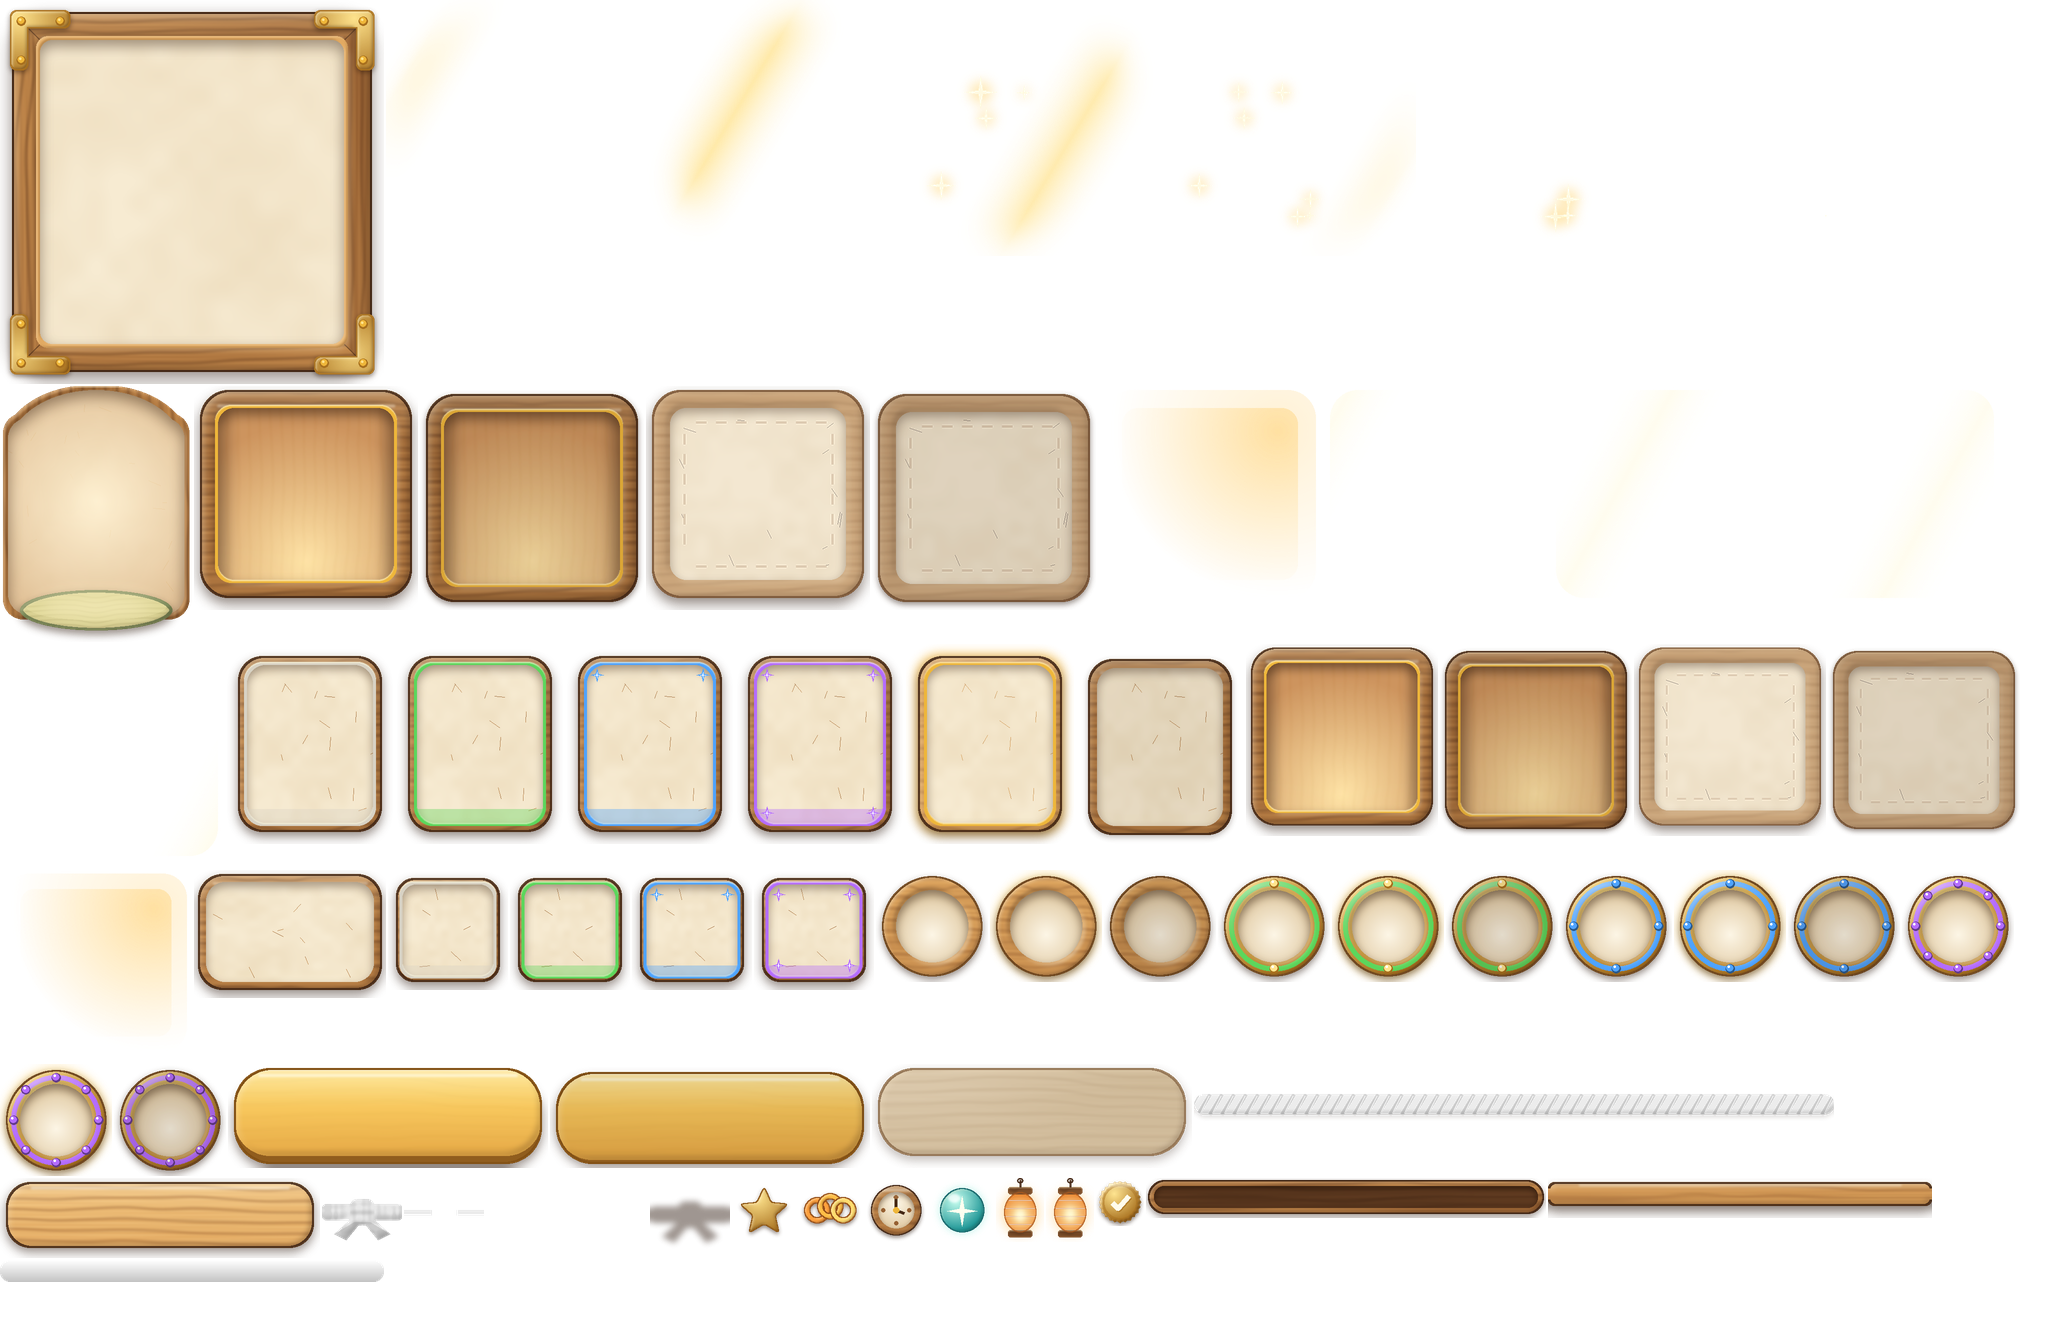
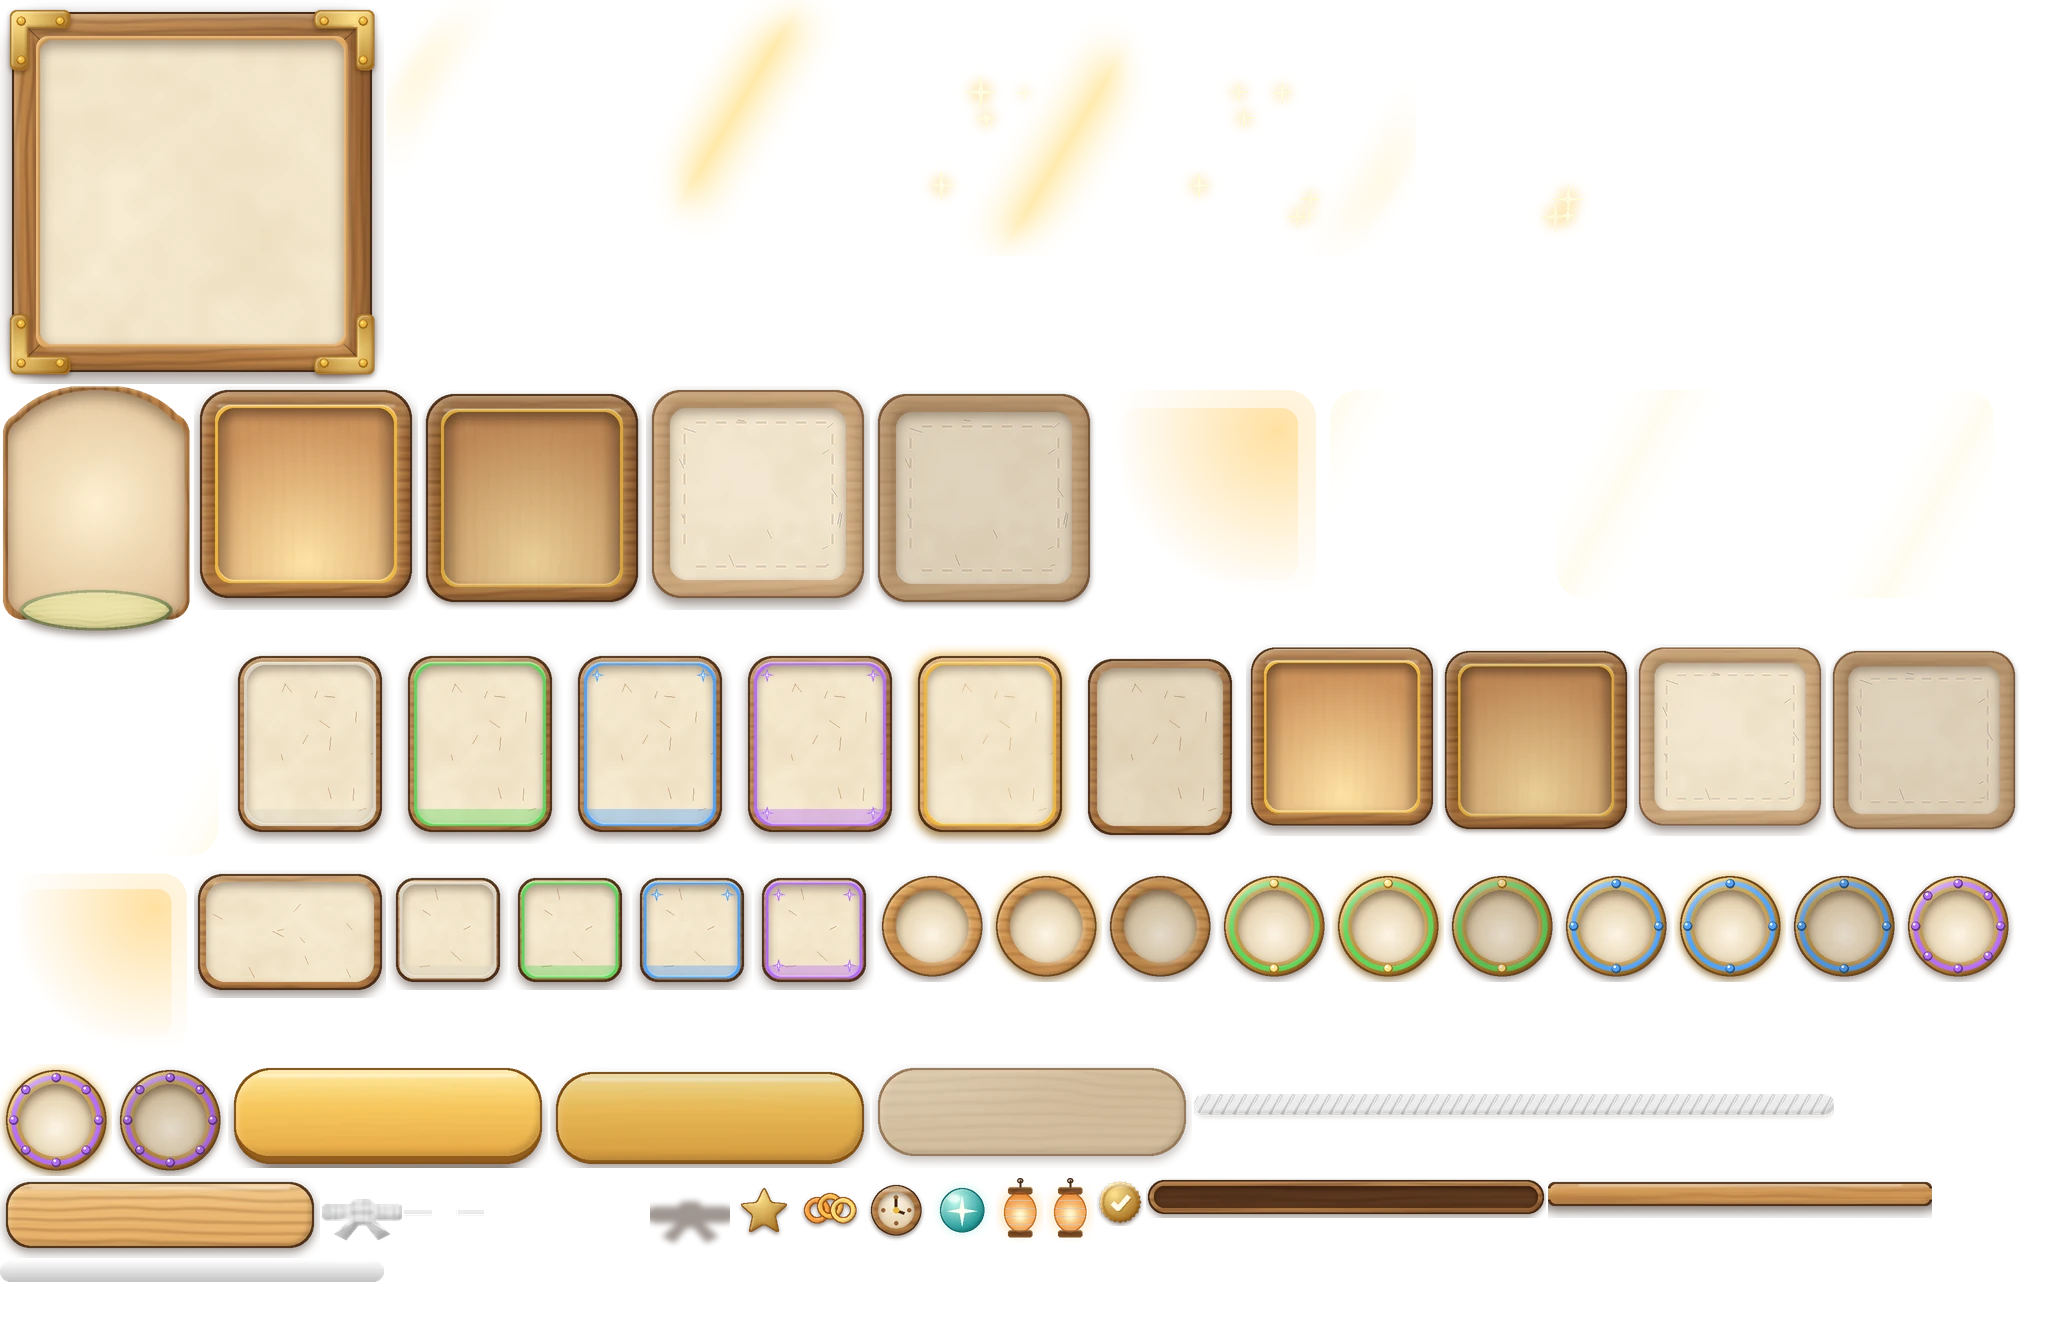
P-MENU2-i: QA fixes on #286 (uniform gear tiles, rarity/name contrast >=4.5, 3-slice height + rail clearance, 8px stat label pad, lossy menu2 webp 268KB)

diff --git a/apps/client/src/scenes/HomeScene.ts b/apps/client/src/scenes/HomeScene.ts
@@ -47,7 +47,7 @@ import { isPlayTimeUp } from '../game/playTime';
 import { addIcon, ICON_PACK } from '../art/icons';
 import { addGearIcon, loadGearIcons } from '../art/gearIcons';
 import { loadArt } from '../art/art';
-import { hasMenu2, menu2Frames, menu2Image, menu2Slice, skinButton, woodSkin, HONEY_INK } from '../art/menu2';
+import { hasMenu2, menu2Fit, menu2Frames, menu2Image, menu2Slice, setMenu2, skinButton, woodSkin, HONEY_INK } from '../art/menu2';
 import { MENU2_PACK, artRarity } from '../art/menu2Frames';
 import { makeStandingCharacter } from '../art/player';
 import { loadLook, playerPacks } from '../game/look';
@@ -74,6 +74,11 @@ type Tab = 'run' | 'gear' | 'abilities' | 'gate';
  * summary, gear, abilities, and the Gate.
  */
 /** P-MENU2-i: the A-MENU2 stat icons (Rooms has none, so it shows its number only). */
+/** QA: rarity words on the paper tiles, darkened to at least 4.5:1 on the paper (#efe0c4). */
+const RARITY_INK: Record<GearItem['rarity'], string> = { common: '#6b5a48', uncommon: '#245a24', rare: '#174a7d', epic: '#5e2696', legendary: '#8a4a12' };
+/** QA: the painted wood rim of the stat tile at k 0.5 (12 of its 32 @2x slice px; half at k 0.25), and the space kept inside it. */
+const STAT_RIM = 6;
+const STAT_PAD = S2;
 const STAT_ICON: Record<string, string | undefined> = { perfects: 'stat-perfect', combo: 'stat-combo', time: 'stat-clock', xp: 'stat-xp' };
 
 /** A-MENU2: only the Black belt gets the full knot sheen. */
@@ -541,9 +546,11 @@ export class HomeScene extends Phaser.Scene {
     L.tiles.forEach((b, i) => {
       const st = m.stats[i];
       // P-MENU2-i: the A-MENU2 stat tile (9-slice 16) with its icon at x 12; code tile if missing.
-      const tileArt = menu2Slice(this, 'stat-tile', X(b.x), Y(b.y), b.w, b.h);
+      // QA: short (44) tiles draw the rim at half size (k 0.25) so the label keeps 8 px inside it.
+      const rim = b.h < 56 ? STAT_RIM / 2 : STAT_RIM;
+      const tileArt = menu2Slice(this, 'stat-tile', X(b.x), Y(b.y), b.w, b.h, b.h < 56 ? 0.25 : 0.5);
       // On the paper tile the words are dark ink (white on wood stays for the code tile).
-      const ink = tileArt ? { num: st.key === 'xp' ? '#2f6f9a' : WOOD.ink, label: '#5a3e28' } : { num: st.key === 'xp' ? '#9ad1ff' : '#fff6e6', label: '#f2e3c4' };
+      const ink = tileArt ? { num: st.key === 'xp' ? '#245a80' : WOOD.ink, label: '#5a3e28' } : { num: st.key === 'xp' ? '#9ad1ff' : '#fff6e6', label: '#f2e3c4' };
       if (tileArt) {
         this.ui.add(tileArt);
         const iconArt = STAT_ICON[st.key];
@@ -556,10 +563,18 @@ export class HomeScene extends Phaser.Scene {
         tg.lineStyle(2, WOOD.frameDark).strokeRoundedRect(X(b.x), Y(b.y), b.w, b.h, RADIUS.button);
         this.ui.add(tg);
       }
-      const big = b.h >= 56 ? TYPE.heading : TYPE.title;
+      // QA: on the short art tile the number steps down to 14 so it clears the padded label.
+      const big = b.h >= 56 ? TYPE.heading : tileArt ? TYPE.body : TYPE.title;
       const num = this.text(X(b.x + b.w / 2), Y(b.y + S1), st.format(count ? 0 : st.value), big, ink.num, true).setOrigin(0.5, 0);
       num.setData('stat', st.key);
-      this.oneLine(this.text(X(b.x + b.w / 2), Y(b.y + b.h - S1 - TYPE.label - 2), st.label, TYPE.label, ink.label, true).setOrigin(0.5, 0), b.w - 2 * S2, TYPE.label);
+      // QA: on the art the label keeps 8 px inside the painted rim (bottom and sides).
+      const inset = tileArt ? rim + STAT_PAD : S1 + 2;
+      const lab = this.text(X(b.x + b.w / 2), Y(b.y + b.h - inset), st.label, TYPE.label, ink.label, true).setOrigin(0.5, 1);
+      this.oneLine(lab, b.w - 2 * (tileArt ? rim + STAT_PAD : S2), TYPE.label);
+      if (tileArt) {
+        lab.setData('statLabel', st.key);
+        tileArt.setData('statTile', st.key).setData('rim', rim);
+      }
       if (count) {
         const v = { t: 0 };
         this.tweens.add({ targets: v, t: 1, delay: countDelay, duration: LASTRUN_MOTION.countMs, onUpdate: () => num.setText(st.format(countAt(st.value, v.t))), onComplete: () => num.setText(st.format(st.value)) });
@@ -576,11 +591,15 @@ export class HomeScene extends Phaser.Scene {
     const bar = this.add.graphics();
     this.ui.add(bar);
     // P-MENU2-i: the A-MENU2 bar (3-slice frame, fill tinted #f2c14e, gloss on top); code bar if missing.
-    const frameArt = menu2Slice(this, 'xp-bar-frame', X(0), Y(L.bar.y) - 2, cw, L.bar.h + 4);
-    const inset = ((L.bar.h + 4) * 4) / 20;
-    const fillH = ((L.bar.h + 4) * 11) / 20;
-    const fillArt = frameArt ? menu2Slice(this, 'xp-bar-fill', X(inset), Y(L.bar.y) - 2 + inset, cw - 2 * inset, fillH) : null;
-    const glossArt = fillArt ? menu2Slice(this, 'xp-bar-gloss', X(inset), Y(L.bar.y) - 2 + inset, cw - 2 * inset, fillH) : null;
+    // QA: the rail is only 1 px taller than the bar each way, so it stays clear of the tiles above and Found / dots / New for you below.
+    const railH = L.bar.h + 2;
+    const railY = Y(L.bar.y) - 1;
+    const frameArt = menu2Slice(this, 'xp-bar-frame', X(0), railY, cw, railH);
+    frameArt?.setData('xpRail', true);
+    const inset = (railH * 4) / 20;
+    const fillH = (railH * 11) / 20;
+    const fillArt = frameArt ? menu2Slice(this, 'xp-bar-fill', X(inset), railY + inset, cw - 2 * inset, fillH) : null;
+    const glossArt = fillArt ? menu2Slice(this, 'xp-bar-gloss', X(inset), railY + inset, cw - 2 * inset, fillH) : null;
     if (frameArt && fillArt) {
       fillArt.setTint(atCap ? 0xffd166 : 0xf2c14e);
       this.ui.add([frameArt, fillArt, ...(glossArt ? [glossArt] : [])]);
@@ -651,7 +670,7 @@ export class HomeScene extends Phaser.Scene {
     const fresh = newForYou(this.trophyCubbies(), this.profile.trophiesSeen);
     if (fresh) {
       const nc = L.newCard;
-      this.text(X(nc.x), Y(L.newLabelY), LASTRUN_WORDS.newForYou, TYPE.label, '#a0522d', true);
+      this.text(X(nc.x), Y(L.newLabelY), LASTRUN_WORDS.newForYou, TYPE.label, '#8a4a12', true).setData('newLabel', true);
       const b = button(this, { x: X(nc.x), y: Y(nc.y), w: nc.w, h: nc.h, label: '', color: 0xa8703f, size: TYPE.label, stroke: 0xffd166, onTap: () => this.openNewForYou() }, this.ui);
       b.visual.setData('newForYou', fresh.id);
       const tall = nc.h >= 80;
@@ -1079,6 +1098,8 @@ export class HomeScene extends Phaser.Scene {
     const txt = this.cubbyLabel(c, size);
     const iy = -half + TROPHY_UI.stroke / 2 + TROPHY_UI.cubbyTop + iconS / 2;
     txt.setY(iy + iconS / 2 + TROPHY_UI.cubbyGap);
+    // QA: the cream names sit over the yellow icon disc and the honey wood; a dark ink outline keeps them 4.5:1+.
+    if (skin && c.earned) txt.setStroke(WOOD.ink, 4).setData('cubbyName', true);
     const icon = c.icon ? addIcon(this, c.icon, 0, iy, iconS) : null;
     if (icon) v.add(icon.setAlpha(c.earned ? 1 : 0.3));
     else v.add(this.add.circle(0, iy, iconS / 2, c.earned ? 0xffd166 : WOOD.grain, c.earned ? 0.9 : 0.3));
@@ -1441,8 +1462,20 @@ export class HomeScene extends Phaser.Scene {
       const v = b.visual.setData('gearTile', it.uid);
       // P-MENU2-i: the rarity frame (72 x 88 tile in an 84 x 100 file); Selected art while picked.
       const tileArt = sel ? 'bag-tile-selected' : `bag-tile-${artRarity(it.rarity)}`;
-      const tileSkin = menu2Image(this, tileArt, 0, 0, (box.w * 84) / 72, (box.h * 100) / 88);
-      if (tileSkin) skinButton(this, b, tileSkin, tileArt, 'bag-tile-pressed');
+      // QA: one uniform scale (fit to the width, the plain middle cropped out), never stretched.
+      const halves = menu2Fit(this, tileArt, box.w, box.h, 6);
+      const tileSkin = halves?.[0] ?? null;
+      if (halves) {
+        skinButton(this, b, halves[0], tileArt, 'bag-tile-pressed');
+        halves.slice(1).forEach((hb) => {
+          v.addAt(hb, 2);
+          b.hit.on(Phaser.Input.Events.GAMEOBJECT_POINTER_DOWN, () => setMenu2(this, hb, 'bag-tile-pressed'));
+          const up = () => hb.active && setMenu2(this, hb, tileArt);
+          b.hit.on(Phaser.Input.Events.GAMEOBJECT_POINTER_UP, up);
+          b.hit.on(Phaser.Input.Events.GAMEOBJECT_POINTER_OUT, up);
+        });
+        v.setData('tileFit', halves.map((im) => [im.scaleX, im.scaleY]));
+      }
       // Icon above, the small rarity word under it (12 px, ≥8 px side padding, B-POLISH-2 wrap rules).
       const lh = GEAR_BOARD.labelH;
       const iconS = Math.min(GEAR_BOARD.iconMax, box.h - lh - 3 * S1 - 4);
@@ -1452,7 +1485,7 @@ export class HomeScene extends Phaser.Scene {
       else v.add(slotGlyph(this, it.slot, 0, iy, iconS - 8, RARITY_COLOR[it.rarity]));
       const tw = cubbyTextW(box.w);
       const word = rarityName(it.rarity);
-      const lab = this.add.text(0, box.h / 2 - S1 - 1, word, { fontFamily: FONT, fontSize: `${GEAR_BOARD.labelSize}px`, fontStyle: 'bold', color: tileSkin && it.rarity === 'common' ? '#6b5a48' : css(RARITY_COLOR[it.rarity]), align: 'center', wordWrap: { width: tw } }).setOrigin(0.5, 1).setResolution(crisp()).setData('rarityWord', true);
+      const lab = this.add.text(0, box.h / 2 - S1 - 1, word, { fontFamily: FONT, fontSize: `${GEAR_BOARD.labelSize}px`, fontStyle: 'bold', color: tileSkin ? RARITY_INK[it.rarity] : css(RARITY_COLOR[it.rarity]), align: 'center', wordWrap: { width: tw } }).setOrigin(0.5, 1).setResolution(crisp()).setData('rarityWord', true);
       v.add(wrapLikeCubby(lab, word, tw).setMaxLines(1));
       if (cmp.overall === 'worn') {
         v.add(this.add.circle(-box.w / 2 + 9, -box.h / 2 + 9, 7, 0xffd166));

diff --git a/apps/client/src/art/menu2.ts b/apps/client/src/art/menu2.ts
@@ -34,8 +34,8 @@ export function menu2Slice(scene: Phaser.Scene, name: Name, x: number, y: number
   // k = screen px per @2x px. 'height' (3-slices): scale the whole sprite so its height is h, caps included.
   const sc = k === 'height' ? h / (2 * s.size[1]) : k;
   const ns = scene.add.nineslice(x, y, s.tex[0], s.tex[1], Math.max(l + r, w / sc), Math.max(t + b, h / sc), l, r, t, b).setOrigin(0);
-  // 3-slice art keeps its own height; scale it to fit.
-  if (t === 0 && b === 0 && k !== 'height') ns.setScale(sc, h / s.size[1]);
+  // 3-slice art keeps its own (@2x) height; scale it so it is drawn exactly h tall.
+  if (t === 0 && b === 0 && k !== 'height') ns.setScale(sc, h / ns.height);
   else ns.setScale(sc);
   return ns;
 }
@@ -56,6 +56,35 @@ export function woodSkin(scene: Phaser.Scene, b: { visual: Phaser.GameObjects.Co
   for (const c of b.visual.list) if (c instanceof Phaser.GameObjects.Text) c.setColor(HONEY_INK);
   if (o.disabled) b.visual.setAlpha(1);
   return true;
+}
+
+/**
+ * A fixed-size frame drawn into a box of another shape at ONE uniform scale (no stretching): it is
+ * scaled to the box width and, when it is then too tall, its top and bottom halves are cropped and
+ * butted together (the plain middle is cut out). `pad` is the shadow margin per side, in 1x px.
+ * Returns the two halves (or one image), centred on (0, 0); null when the frame can't be drawn.
+ */
+export function menu2Fit(scene: Phaser.Scene, name: Name, w: number, h: number, pad: number): Phaser.GameObjects.Image[] | null {
+  const s = lookup(scene, name);
+  if (!s) return null;
+  const [fw, fh] = s.size;
+  const sc = w / (fw - 2 * pad);
+  const fullH = fh * sc;
+  const showH = h + 2 * pad * sc;
+  const img = () => scene.add.image(0, 0, s.tex[0], s.tex[1]).setDisplaySize(fw * sc, fullH);
+  if (showH >= fullH - 0.5) {
+    // A box taller than the art: fit the height instead (a narrower, portrait tile; still one scale).
+    const sh = h / (fh - 2 * pad);
+    return [img().setDisplaySize(fw * sh, fh * sh)];
+  }
+  const top = img();
+  const bot = img();
+  const texH = top.frame.realHeight;
+  const texW = top.frame.realWidth;
+  const cut = Math.ceil((texH * showH) / 2 / fullH) + 1;
+  top.setCrop(0, 0, texW, cut).setY(-showH / 2 + fullH / 2);
+  bot.setCrop(0, texH - cut, texW, cut).setY(showH / 2 - fullH / 2);
+  return [top, bot];
 }
 
 /** Re-points an image or 9-slice at another frame (pressed states). False when it can't. */

diff --git a/packages/sim/test/p-menu2-i-art.test.ts b/packages/sim/test/p-menu2-i-art.test.ts
@@ -49,7 +49,7 @@ describe('P-MENU2-i menu2 art', () => {
     expect(helpers).toMatch(/if \(!s\) return null/);
     expect(home).toMatch(/if \(tileArt\)[\s\S]{0,400}else/);
     // The bag tile's fallback is the button's own code-drawn face, hidden only when the skin draws.
-    expect(home).toMatch(/if \(tileSkin\) skinButton/);
+    expect(home).toMatch(/if \(halves\) \{\s*skinButton/);
     expect(home).toMatch(/hasMenu2\(this, 'belt-knot-band'\)/);
   });
 
@@ -70,6 +70,32 @@ describe('P-MENU2-i menu2 art', () => {
     expect((home.match(/woodSkin\(this/g) ?? []).length).toBeGreaterThanOrEqual(9);
     expect(out.filter((n) => n.startsWith('switch'))).toEqual([]);
     expect(home + helpers).not.toMatch(/['"`]switch-(?:track|left|right)/);
+  });
+
+  it('QA fixes: inks reach 4.5:1 on the paper, tiles keep one scale, the rail is drawn h tall, the webp is small', () => {
+    const lum = (h: string) => {
+      const c = [1, 3, 5].map((i) => parseInt(h.slice(i, i + 2), 16) / 255).map((v) => (v <= 0.03928 ? v / 12.92 : ((v + 0.055) / 1.055) ** 2.4));
+      return 0.2126 * c[0] + 0.7152 * c[1] + 0.0722 * c[2];
+    };
+    const ratio = (a: string, b: string) => {
+      const [lo, hi] = [lum(a), lum(b)].sort((x, y) => x - y);
+      return (hi + 0.05) / (lo + 0.05);
+    };
+    const inks = home.match(/const RARITY_INK[^{]*\{([^}]*)\}/)![1];
+    const colours = [...inks.matchAll(/'(#[0-9a-f]{6})'/g)].map((m) => m[1]);
+    expect(colours.length).toBe(5);
+    // The paper under the words is darker on the rarity band, so test a greyer paper too.
+    for (const c of colours) for (const paper of ['#efe0c4', '#e2dccb']) expect(ratio(c, paper), c).toBeGreaterThanOrEqual(4.5);
+    expect(home).toMatch(/txt\.setStroke\(WOOD\.ink, 4\)/);
+    expect(ratio('#fff6e6', '#3a2618')).toBeGreaterThanOrEqual(4.5);
+    expect(home).toMatch(/menu2Fit\(this, tileArt/);
+    expect(home).not.toMatch(/box\.w \* 84\) \/ 72, \(box\.h \* 100\) \/ 88/);
+    expect(helpers).toMatch(/setScale\(sc, h \/ ns\.height\)/);
+    expect(home).toMatch(/STAT_RIM \+|rim \+ STAT_PAD/);
+    const dataUrl = raw(import.meta.glob('../../../assets/art/menu2-0.webp', { query: '?inline', import: 'default', eager: true }));
+    const bytes = ((dataUrl.length - dataUrl.indexOf(',') - 1) * 3) / 4;
+    expect(bytes).toBeGreaterThan(50 * 1024);
+    expect(bytes).toBeLessThan(400 * 1024);
   });
 
   it('Legendary uses the Epic art', () => {

diff --git a/tools/art-import/import_art.py b/tools/art-import/import_art.py
@@ -261,9 +261,14 @@ def main() -> None:
             if old.startswith(pack_name + '-') and old.endswith(('.png', '.webp')):
                 os.remove(os.path.join(out_dir, old))
         for i, page in enumerate(pages):
-            # Lossless WebP: exact pixels, about 40% smaller than PNG.
+            # Lossless WebP by default: exact pixels, about 40% smaller than PNG.
+            # A pack may set "webpQuality" (lossy, alpha kept exact) when lossless is too big.
             fname = f'{pack_name}-{i}.webp'
-            page.save(os.path.join(out_dir, fname), lossless=True, method=6)
+            q = pack.get('webpQuality')
+            if q:
+                page.save(os.path.join(out_dir, fname), quality=q, alpha_quality=100, method=6)
+            else:
+                page.save(os.path.join(out_dir, fname), lossless=True, method=6)
             names.append(fname)
         meta = {
             'about': 'Made by tools/art-import/import_art.py. Do not edit by hand; re-run the script.',

diff --git a/docs/decisions.md b/docs/decisions.md
@@ -1135,3 +1135,14 @@ A weapon's `disarmedPower` (the Bouncy Bopper's push) now uses the same per-belt
 3. These stay as they are: Legendary borrows Epic, the code-drawn circle on kata cubbies, the lantern on the next cubby only.
 4. Dark ink on the stat tiles and #6b5a48 for "Everyday" are approved.
 - How: the panel frame is drawn at 0.25 so its rail fits the code frame's margin; Gear and the Trophy Case keep their dark well over its paper centre so their light words still read. The page arrows use the honey button with the ◀ ▶ label (the art has no page-arrow sprite). Unpicked tabs are the honey button darkened. Labels on honey are #462a16.
+
+## P-MENU2-i: QA fixes on #286 (2026-10-25)
+- Gear tiles: the bag-tile art is drawn at one uniform scale (fit to the tile width). When that is too tall, the top and bottom halves are cropped and butted together, cutting out the plain middle. Nothing is stretched (`menu2Fit`).
+- Contrast is at least 4.5:1, without changing the art:
+  - Rarity words on paper use darker inks: Special #245a24, Rare #174a7d, Epic #5e2696, Legendary #8a4a12, Everyday #6b5a48.
+  - Earned cubby names keep cream text with a 4 px #3a2618 outline (13.3:1).
+  - The XP number is #245a80 and "New for you" is #8a4a12.
+- 3-slice art (XP rail, shelf plank, belt cord) is now drawn exactly at the height asked. It was drawn about twice as tall, which put the XP rail under the Found dots and "New for you".
+- The XP rail is 1 px taller than the bar on each side.
+- Stat labels sit 8 px inside the painted wood rim (bottom and sides). On 44-tall tiles the rim is drawn at k 0.25 and the number is 14 px, so it clears the label.
+- menu2-0.webp is saved as lossy WebP at quality 90, with alpha kept exact (`webpQuality` in approved.json). It went from 838 KB to 268 KB, with RGB PSNR 35 dB.
